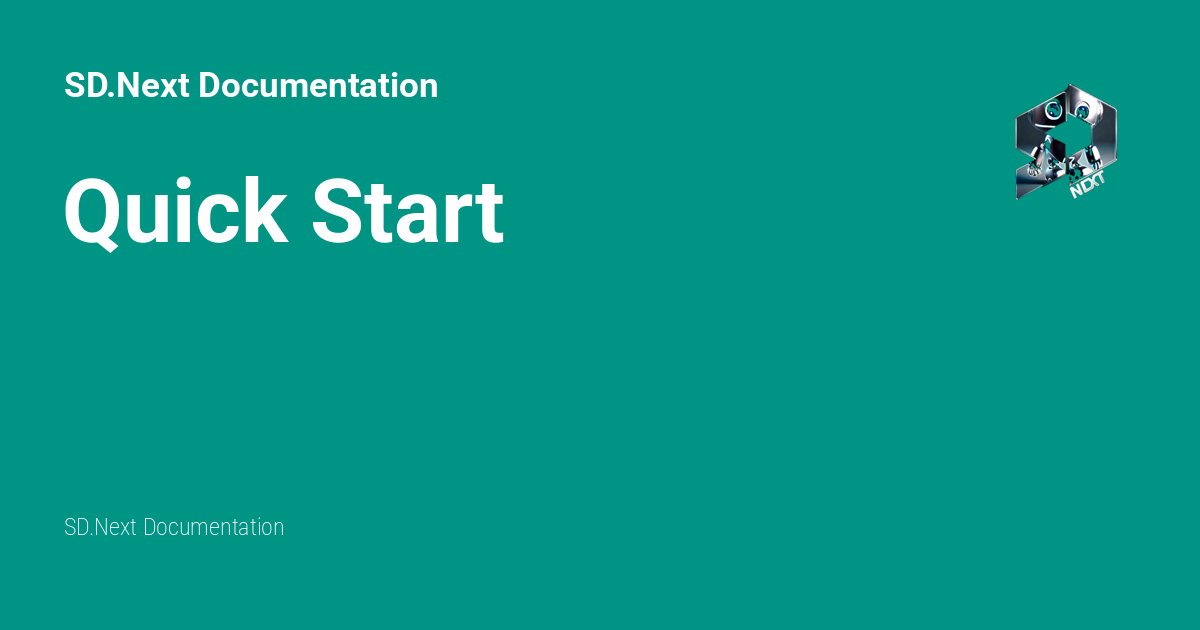
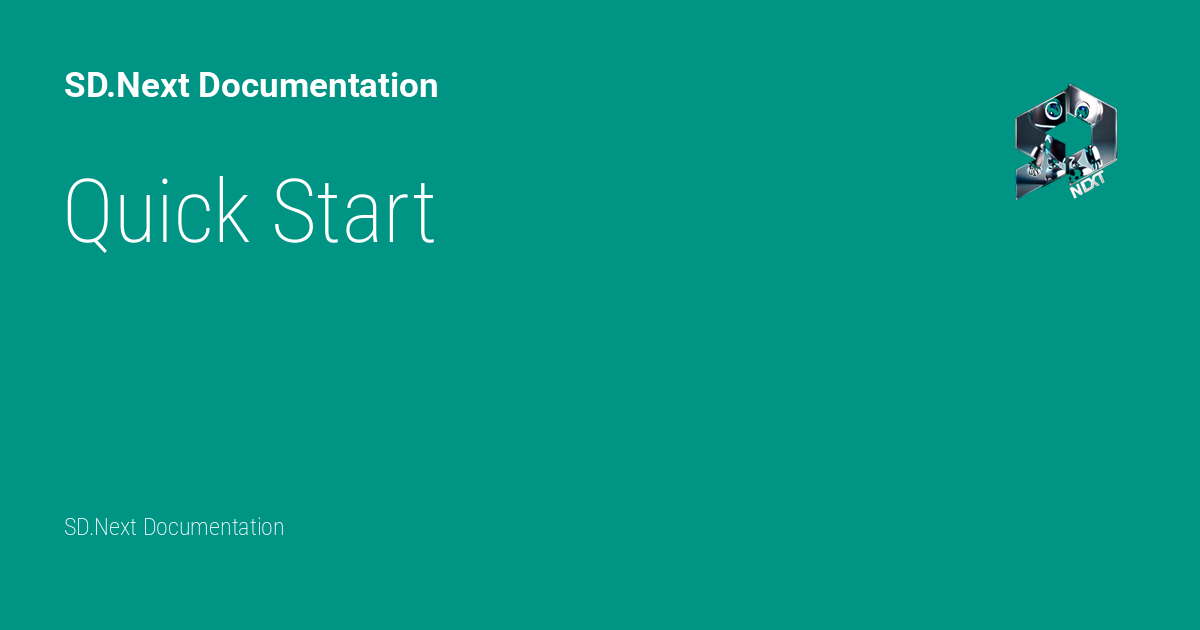
update docs

Changed region(s): [[0.0308, 0.2714, 0.4317, 0.3921]]

diff --git a/docs/CHANGELOG/index.html b/docs/CHANGELOG/index.html
@@ -4094,22 +4094,22 @@
     <ul class="md-nav__list" data-md-component="toc" data-md-scrollfix>
       
         <li class="md-nav__item">
-  <a href="#update-for-2026-06-11" class="md-nav__link">
+  <a href="#update-for-2026-06-12" class="md-nav__link">
     <span class="md-ellipsis">
       
-        Update for 2026-06-11
+        Update for 2026-06-12
       
     </span>
   </a>
   
-    <nav class="md-nav" aria-label="Update for 2026-06-11">
+    <nav class="md-nav" aria-label="Update for 2026-06-12">
       <ul class="md-nav__list">
         
           <li class="md-nav__item">
-  <a href="#highlights-for-2026-06-11" class="md-nav__link">
+  <a href="#highlights-for-2026-06-12" class="md-nav__link">
     <span class="md-ellipsis">
       
-        Highlights for 2026-06-11
+        Highlights for 2026-06-12
       
     </span>
   </a>
@@ -4117,10 +4117,10 @@
 </li>
         
           <li class="md-nav__item">
-  <a href="#details-for-2026-06-11" class="md-nav__link">
+  <a href="#details-for-2026-06-12" class="md-nav__link">
     <span class="md-ellipsis">
       
-        Details for 2026-06-11
+        Details for 2026-06-12
       
     </span>
   </a>
@@ -6492,22 +6492,22 @@
     <ul class="md-nav__list" data-md-component="toc" data-md-scrollfix>
       
         <li class="md-nav__item">
-  <a href="#update-for-2026-06-11" class="md-nav__link">
+  <a href="#update-for-2026-06-12" class="md-nav__link">
     <span class="md-ellipsis">
       
-        Update for 2026-06-11
+        Update for 2026-06-12
       
     </span>
   </a>
   
-    <nav class="md-nav" aria-label="Update for 2026-06-11">
+    <nav class="md-nav" aria-label="Update for 2026-06-12">
       <ul class="md-nav__list">
         
           <li class="md-nav__item">
-  <a href="#highlights-for-2026-06-11" class="md-nav__link">
+  <a href="#highlights-for-2026-06-12" class="md-nav__link">
     <span class="md-ellipsis">
       
-        Highlights for 2026-06-11
+        Highlights for 2026-06-12
       
     </span>
   </a>
@@ -6515,10 +6515,10 @@
 </li>
         
           <li class="md-nav__item">
-  <a href="#details-for-2026-06-11" class="md-nav__link">
+  <a href="#details-for-2026-06-12" class="md-nav__link">
     <span class="md-ellipsis">
       
-        Details for 2026-06-11
+        Details for 2026-06-12
       
     </span>
   </a>
@@ -8882,8 +8882,8 @@
 
 
 <h1 id="change-log-for-sdnext">Change Log for SD.Next</h1>
-<h2 id="update-for-2026-06-11">Update for 2026-06-11</h2>
-<h3 id="highlights-for-2026-06-11">Highlights for 2026-06-11</h3>
+<h2 id="update-for-2026-06-12">Update for 2026-06-12</h2>
+<h3 id="highlights-for-2026-06-12">Highlights for 2026-06-12</h3>
 <p><em>What's New?</em>
 - <strong>Ideogram-4</strong> released, Microsoft joins the game with <strong>Lens</strong> and <strong>Anima</strong> made it to release version
 - <strong>SDNQ</strong> new quantization algorithm with even higher quality
@@ -8894,7 +8894,7 @@
 <p>Plus continued work on modernization of codebase: UI is now fully TypeScript based
 And we have a new modular LoRA loader, new native Transformers loader and improved 3rd party finetunes support!  </p>
 <p><a href="https://github.com/vladmandic/automatic/blob/master/README.md">ReadMe</a> | <a href="https://github.com/vladmandic/automatic/blob/master/CHANGELOG.md">ChangeLog</a> | <a href="https://vladmandic.github.io/sdnext-docs/">Docs</a> | <a href="https://github.com/vladmandic/automatic/wiki">WiKi</a> | <a href="https://discord.com/invite/sd-next-federal-batch-inspectors-1101998836328697867">Discord</a> | <a href="https://github.com/sponsors/vladmandic">Sponsor</a>  </p>
-<h3 id="details-for-2026-06-11">Details for 2026-06-11</h3>
+<h3 id="details-for-2026-06-12">Details for 2026-06-12</h3>
 <ul>
 <li><strong>Models</strong></li>
 <li><a href="https://huggingface.co/circlestone-labs/Anima">CircleStone Anima 1.0</a> in <em>Base</em> and <em>Turbo</em> (distilled) variants<br />
@@ -8916,12 +8916,14 @@ And we have a new modular LoRA loader, new native Transformers loader and improv
 <em>tip</em>: image analysis requires larger VLM model to produce quality output<br />
     new api endpoint: <code>/sdapi/v1/analyze</code><br />
     cleanup list of predefined models, new models added and some old removed<br />
+    add support for prequantized models
     improved default values plus some new params like min length and <code>custom args</code> so you can pass anything to an llm model<br />
     improved system prompts  </li>
 <li><strong>Prompt Enhance</strong> tons of features<br />
     cleanup list of predefined models, new models added and some old removed<br />
     improved default values plus some new params like min length and <code>custom args</code> so you can pass anything to an llm model<br />
     improved system prompts<br />
+    add support for prequantized models
     new processing engine! now you can steer the model as its generating<br />
     add words to list and model will either steer away from them towards safe choices or you choose specific replacements for them<br />
 <em>for example</em>: <code>child:person, toy:airplane, dog:cat</code><br />
@@ -9024,6 +9026,7 @@ And we have a new modular LoRA loader, new native Transformers loader and improv
 <li><code>xpu</code> generator on non-cpu</li>
 <li><code>compel</code> compatibility with <em>transformers==5</em></li>
 <li><code>mixture-tiling</code> fix for non-square images, thanks @QualiaRain</li>
+<li><code>prompts-from-file</code> fix metadata handling, thanks @QualiaRain</li>
 </ul>
 <h2 id="update-for-2026-05-13">Update for 2026-05-13</h2>
 <h3 id="highlights-for-2026-05-13">Highlights for 2026-05-13</h3>